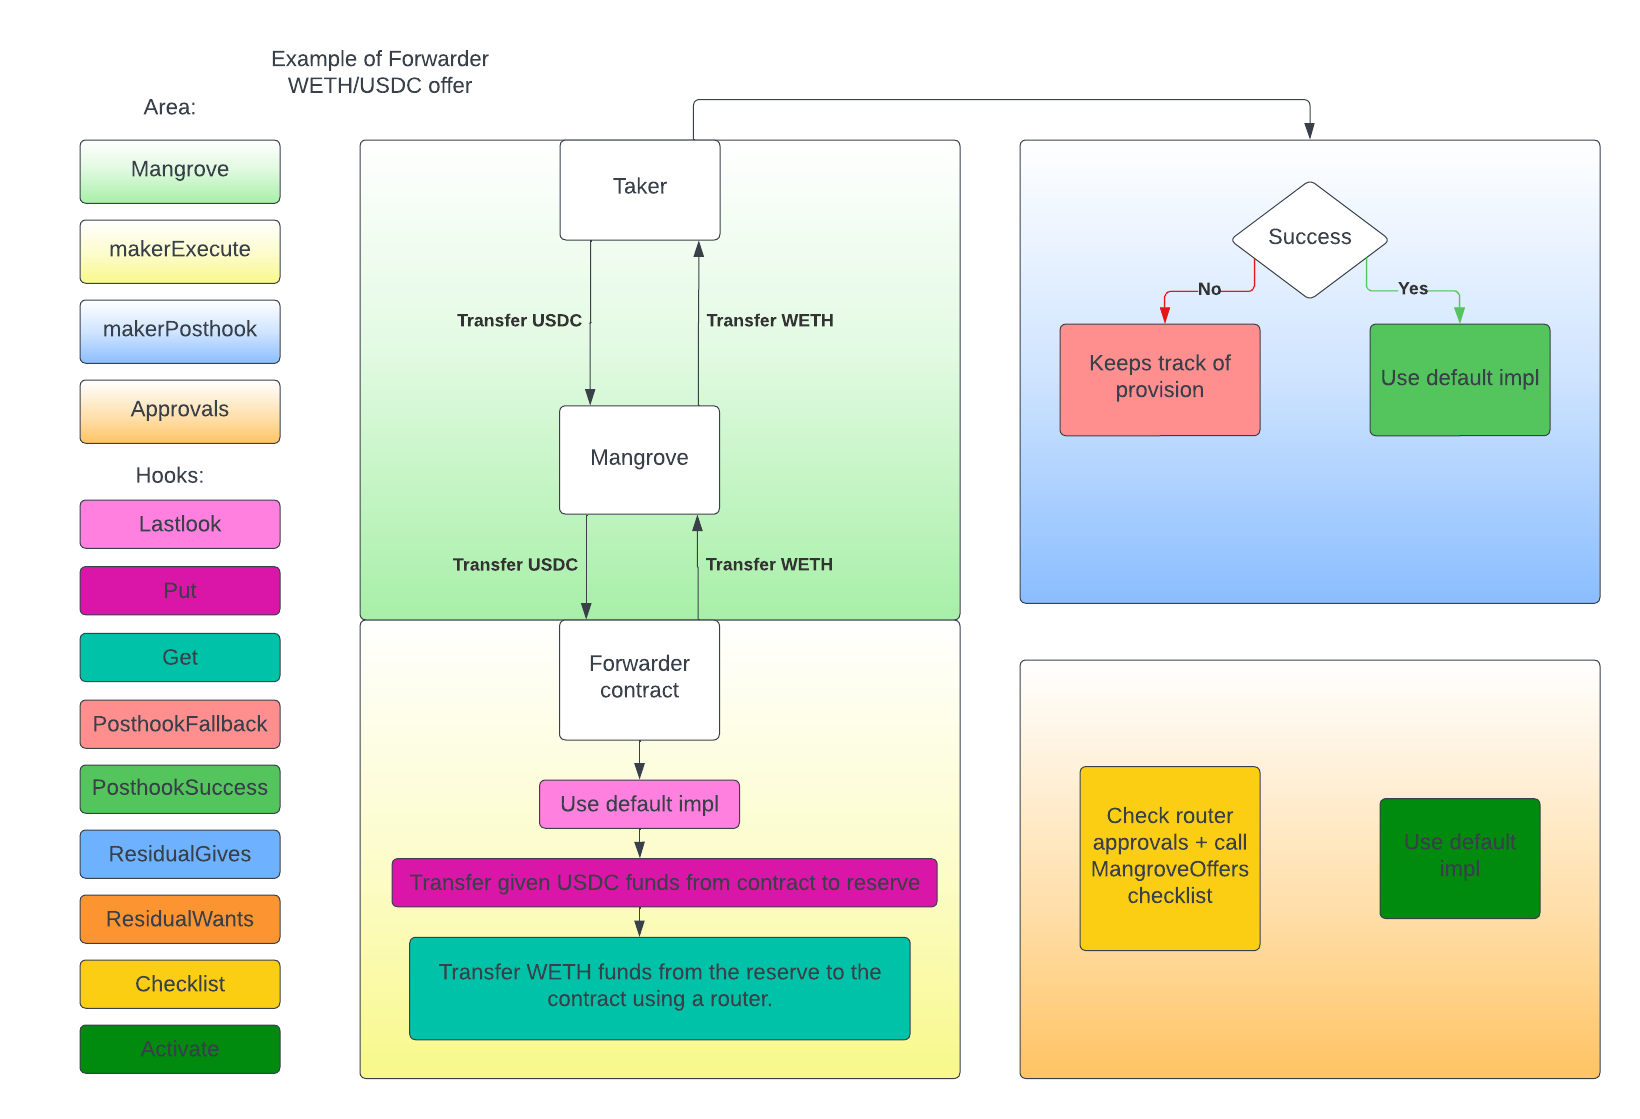
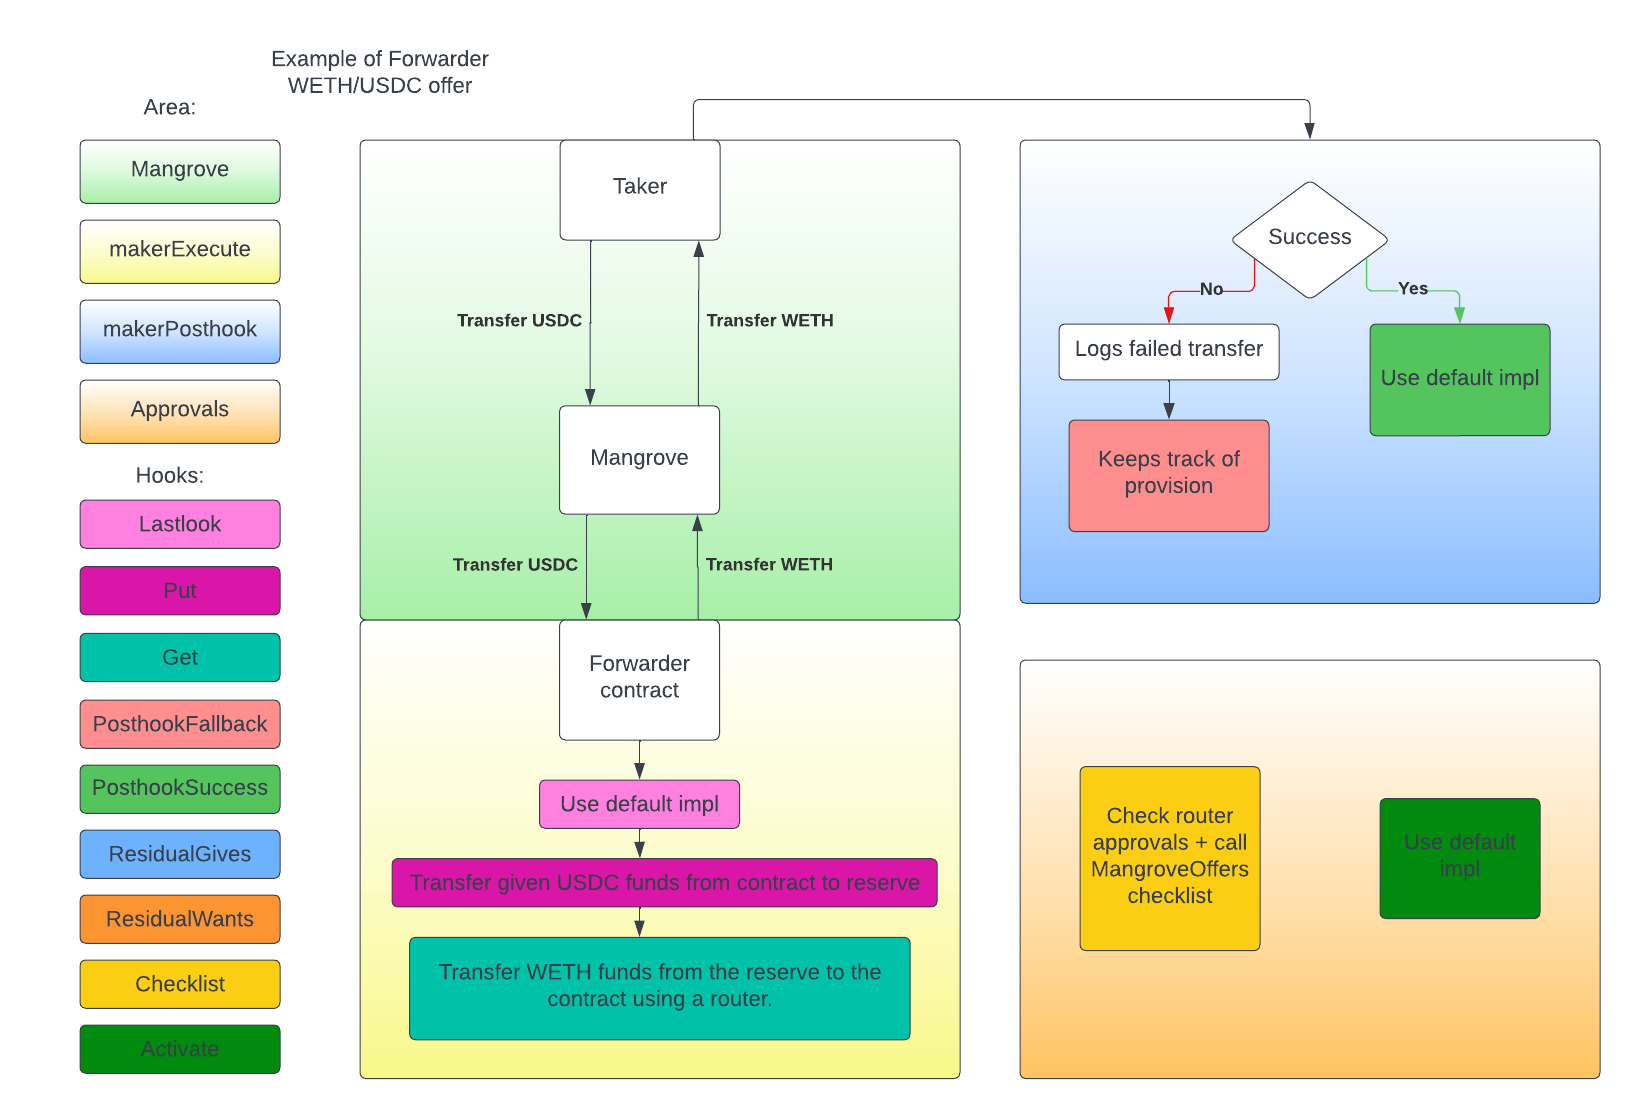
Added logs failed transfer in makerPosthook

Changed region(s): [[0.622, 0.2431, 0.7774, 0.4861]]

diff --git a/offer-maker/mangrover-offer.md b/offer-maker/mangrover-offer.md
@@ -18,7 +18,7 @@ The next hooks are called doing `makerPosthook`. This i called after the offer i
 
 **PosthookSuccess**: If it succeeds in transferring the funds from maker to taker, then the transaction was a success. `makerPosthook` then calls this hook. In this hook MangroveOffer has a default implementation, that reposts the taken offer, if the offer was only partially taken. It does this, by using 2 other hooks, called **residualGives** and **residualWants**. These hooks are used to calculate the new gives and wants for the reposted offer. MangroveOffers default implementation is to return the residual gives and wants of the taker offer. The reason for these being hooks, are that if the maker wants to repost the offer, with new gives and wants, even if the offer was fully taken. Then it will be possible to implement versions of **residualGives** and **residualWants** that returns the new gives and wants that the maker wants to use for the reposted offer. If **residualGives** return zero, then the offer will never be reposted.
 
-**PosthookFallback**:  If the offer fails to transfer the takers funds to the maker, then the transaction will revert. But if it fails trying to transfer the funds from the maker to the taker, then the taker will get a bounty.<!--  link to bounty descriptionFIXME:--> In this situation the hook, **posthookFallback** will get called. MangroveOffers default implementation is empty. An example of what **posthookFallback** could be used for is, it could make sense to deprovision <!--FIXME: link to some kind of description --> the offer, or even retract other offers on the book, that the maker now know will fail. <!-- FIXME: maybe link to doc of Ghost?-->
+**PosthookFallback**: If the offer fails to transfer the takers funds to the maker, then the transaction will revert. But if it fails trying to transfer the funds from the maker to the taker, then the taker will get a bounty.<!--  link to bounty descriptionFIXME:--> In this situation `makerPosthook` will emit a failed transfer and call the hook **posthookFallback**. MangroveOffers default implementation is empty. An example of what **posthookFallback** could be used for is, it could make sense to deprovision <!--FIXME: link to some kind of description --> the offer, or even retract other offers on the book, that the maker now know will fail. <!-- FIXME: maybe link to doc of Ghost?-->
 
 Besides having hooks while the offer is taken and after. MangroveOffer also has 2 other hooks, called **Activate** and **Checklist**. Before an offer can be taken on Mangrove, Mangrove needs to have the correct approvals to transfer the tokens from the MangroveOffer contract to Mangrove. And if the contract is using a Router <!-- FIXME: link to router description --> it also needs to approve the router to transfer the tokens from the contract. Both these hooks are helpers to setup the correct approvals.
 
